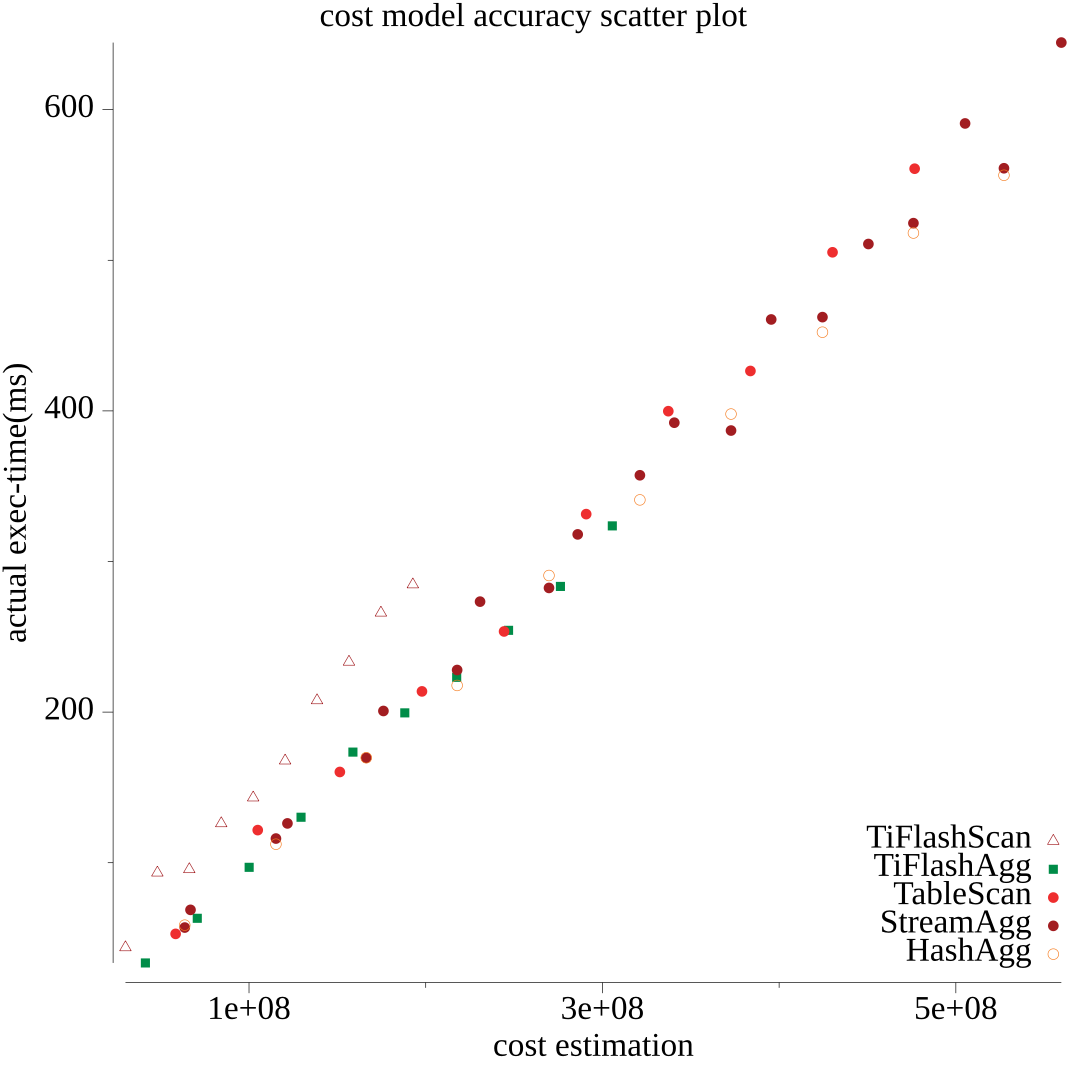
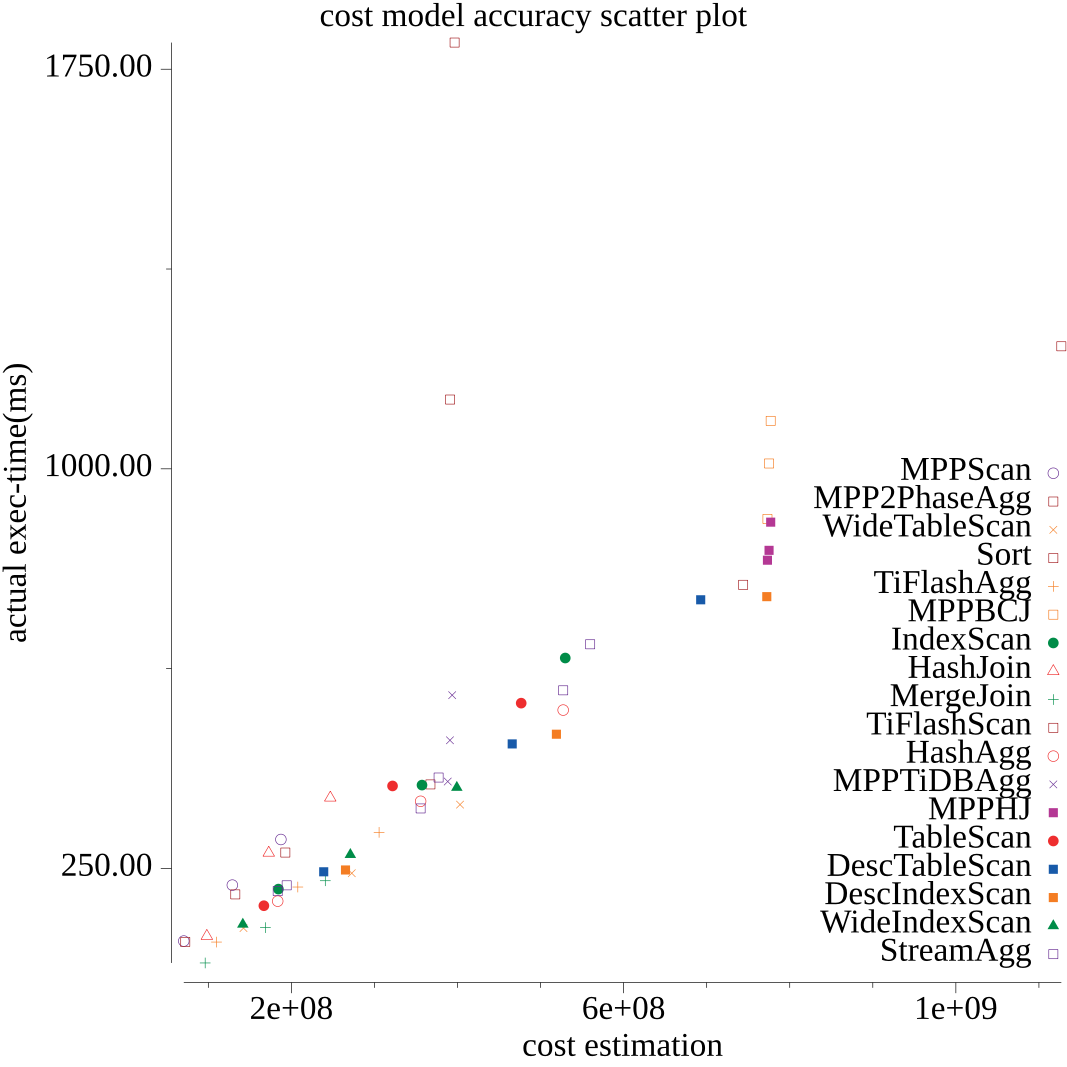
fixup

diff --git a/cost/costcali.go b/cost/costcali.go
@@ -58,27 +58,27 @@ func CostCalibration() {
 	whiteList := []string{
 		// TiKV Plans
 		"TableScan",
-		//"IndexScan",
-		//"WideTableScan",
-		//"WideIndexScan",
-		//"DescTableScan",
-		//"DescIndexScan",
+		"IndexScan",
+		"WideTableScan",
+		"WideIndexScan",
+		"DescTableScan",
+		"DescIndexScan",
 		"StreamAgg",
 		"HashAgg",
-		//"Sort",
-		//"HashJoin",
-		//"MergeJoin",
+		"Sort",
+		"HashJoin",
+		"MergeJoin",
 		//"IndexLookup",
 		//"WideIndexLookup",
 
 		// TiFlash Plans
 		"TiFlashScan",
 		"TiFlashAgg",
-		//"MPPScan",
-		//"MPPTiDBAgg",
-		//"MPP2PhaseAgg",
-		//"MPPHJ",
-		//"MPPBCJ",
+		"MPPScan",
+		"MPPTiDBAgg",
+		"MPP2PhaseAgg",
+		"MPPHJ",
+		"MPPBCJ",
 	}
 	rs = filterCaliRecordsByLabel(rs, whiteList, nil)
 
@@ -88,7 +88,7 @@ func CostCalibration() {
 	recalculateAndDraw(rs,
 		&CostFactors{30, 30, 4, 100, 150, 0, 1.2 * 1e7, 10}, // for TiDB Plans
 		&CostFactors{2, 2, 4, 100, 150, 0, 1.2 * 1e7, 4},    // for TiFlash Plans
-		&CostFactors{30, 30, 4, 100, 150, 0, 1.2 * 1e7, 10}) // for MPP Plans
+		&CostFactors{2, 2, 1, 100, 150, 0, 1.2 * 1e7, 4}) // for MPP Plans
 	//recalculateAndDraw(rs, nil)
 
 	// ====== Automatic Regression ======
@@ -103,7 +103,7 @@ func recalculateAndDraw(rs Records, fs4TiDB, fs4TiFlash, fs4MPP *CostFactors) {
 		fs := fs4TiDB
 		if strings.Contains(rs[i].Label, "TiFlash") {
 			fs = fs4TiFlash
-		} else if strings.Contains(rs[i].Label, "TiFlash") {
+		} else if strings.Contains(rs[i].Label, "MPP") {
 			fs = fs4MPP
 		}
 		if fs != nil {

diff --git a/cost/costeval.go b/cost/costeval.go
@@ -33,7 +33,7 @@ func CostEval() {
 		//{"tpch1g", "tpch", "original", 2, 1, 2000},
 		//{"tpch1g", "tpch", "calibrated", 30, 2, 2000},
 		//{"synthetic", "synthetic", "original", 20, 2, 300},
-		{"synthetic", "synthetic", "calibrated", 10, 2, 2000},
+		{"synthetic", "synthetic", "calibrated", 3, 1, 2000},
 		//{"synthetic", "synthetic", "calibrating", 30, 3, 200},
 	}
 
